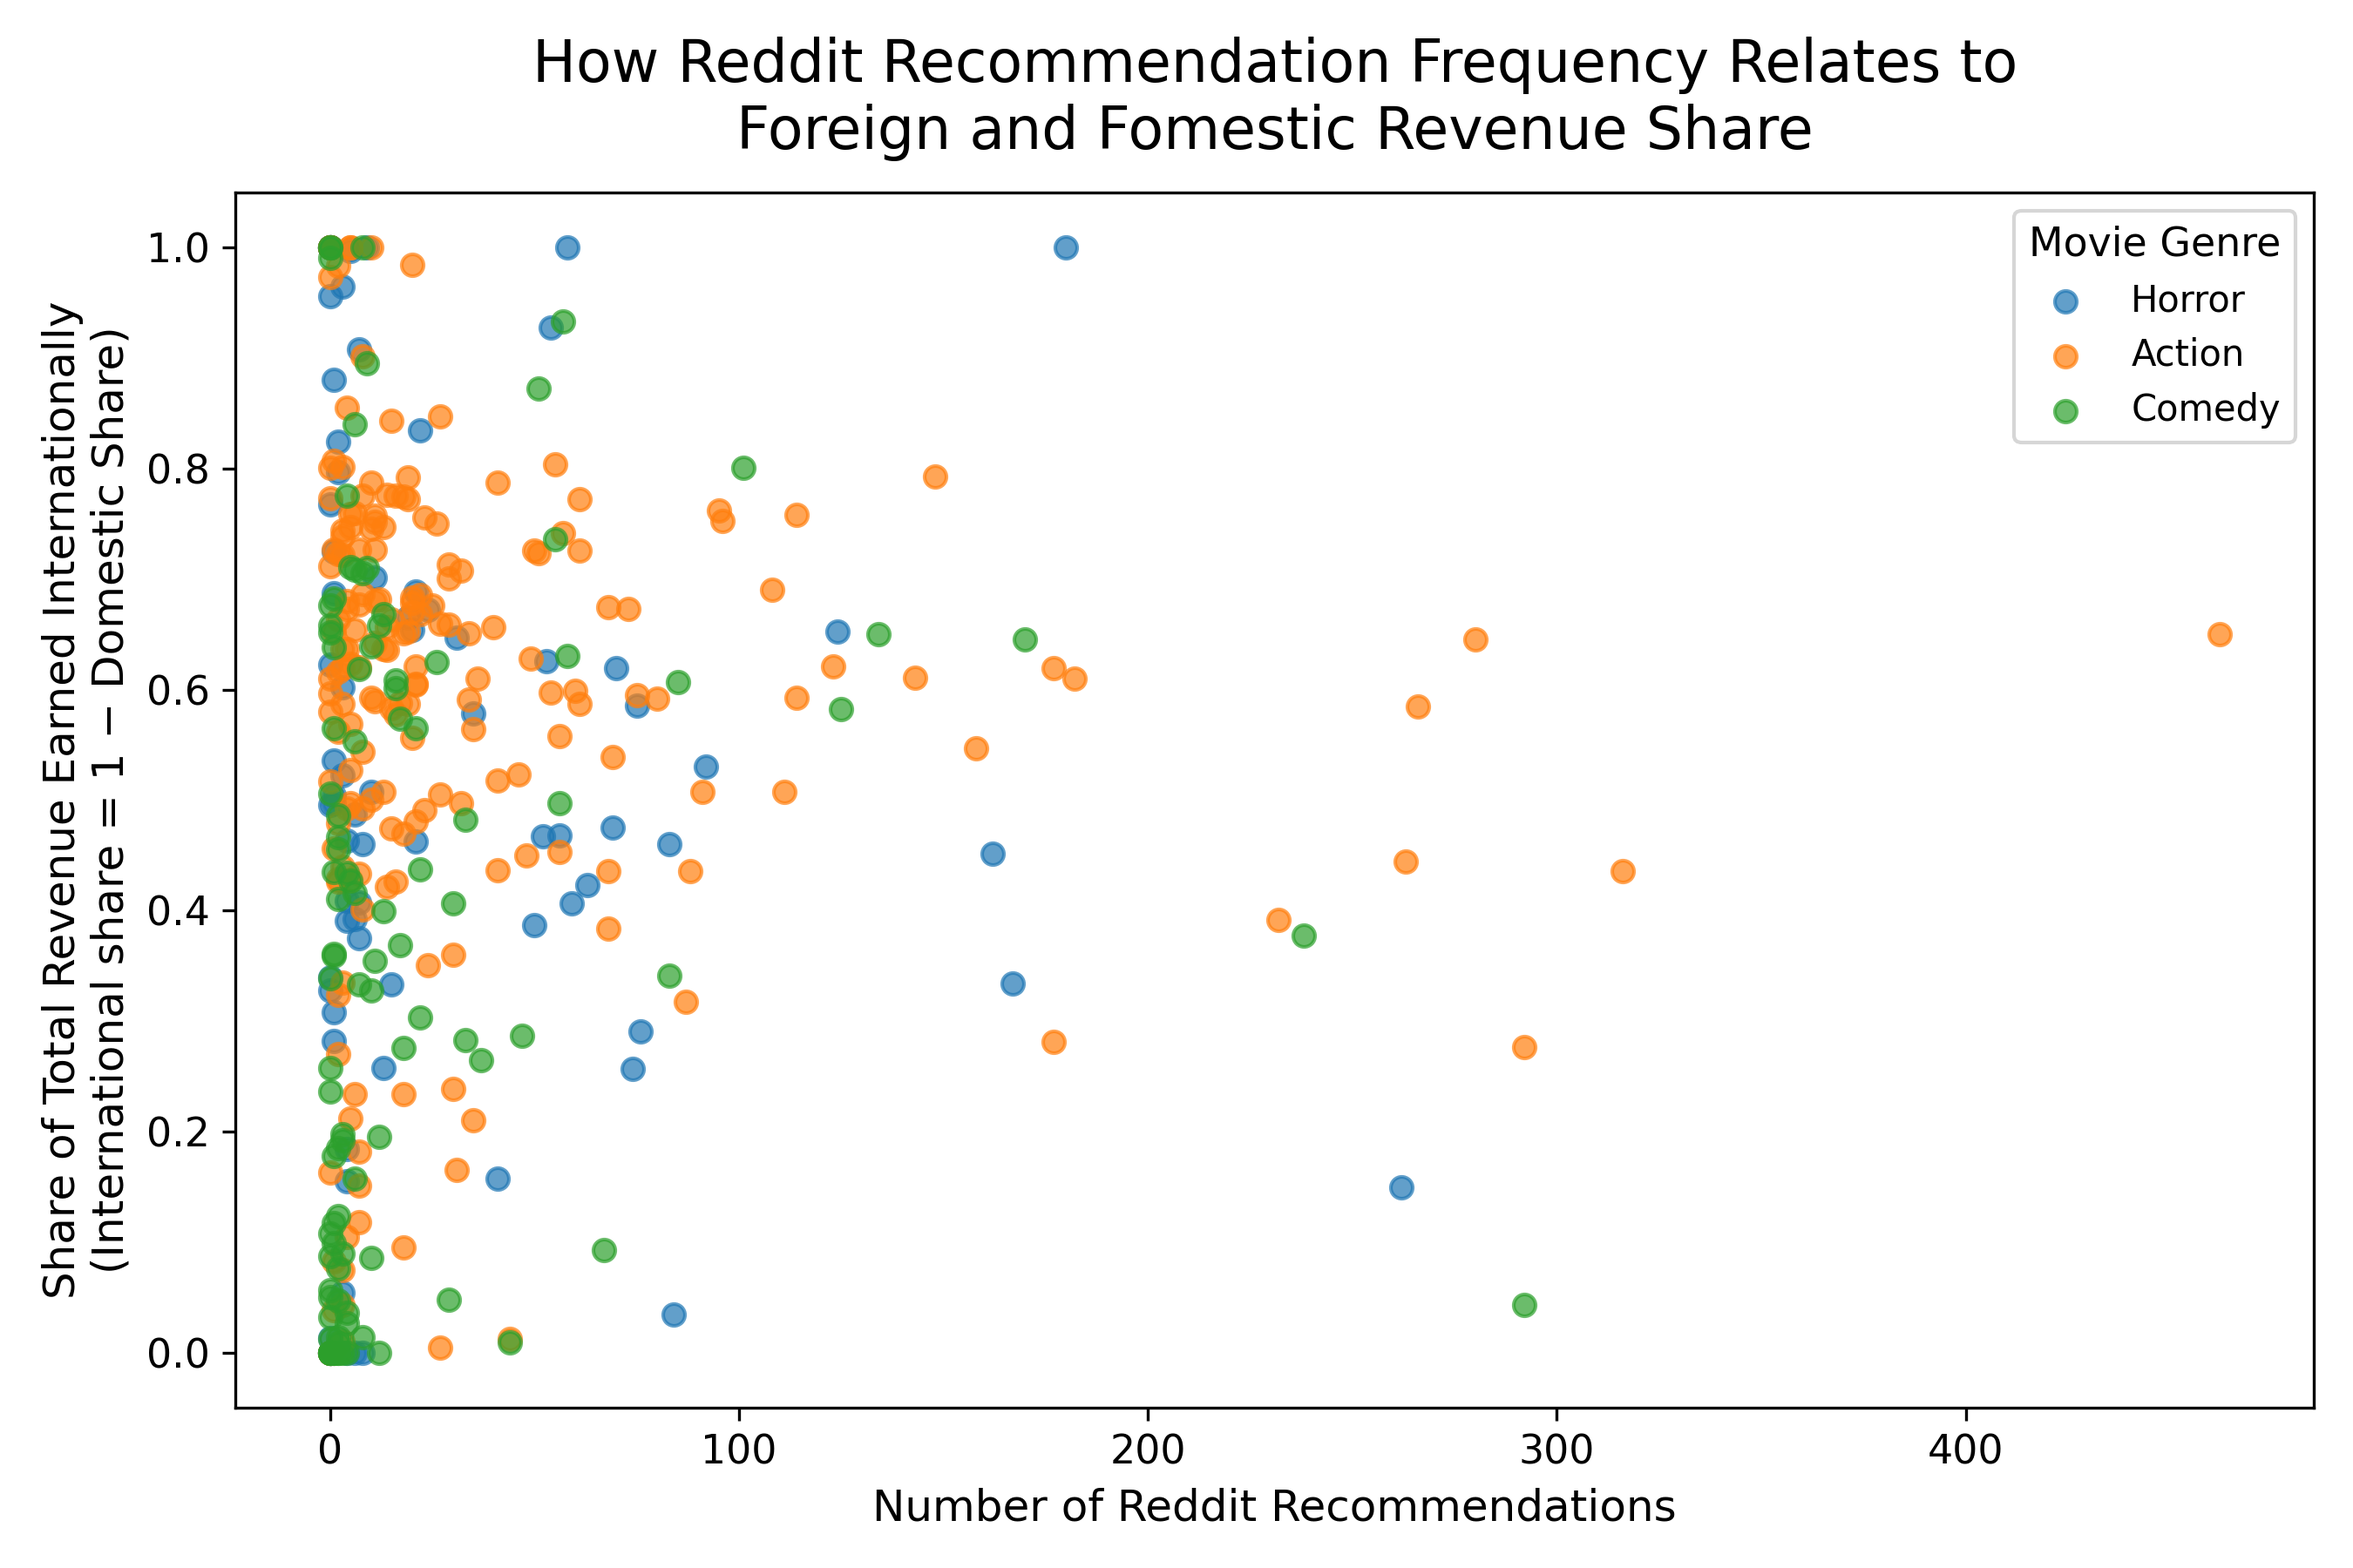
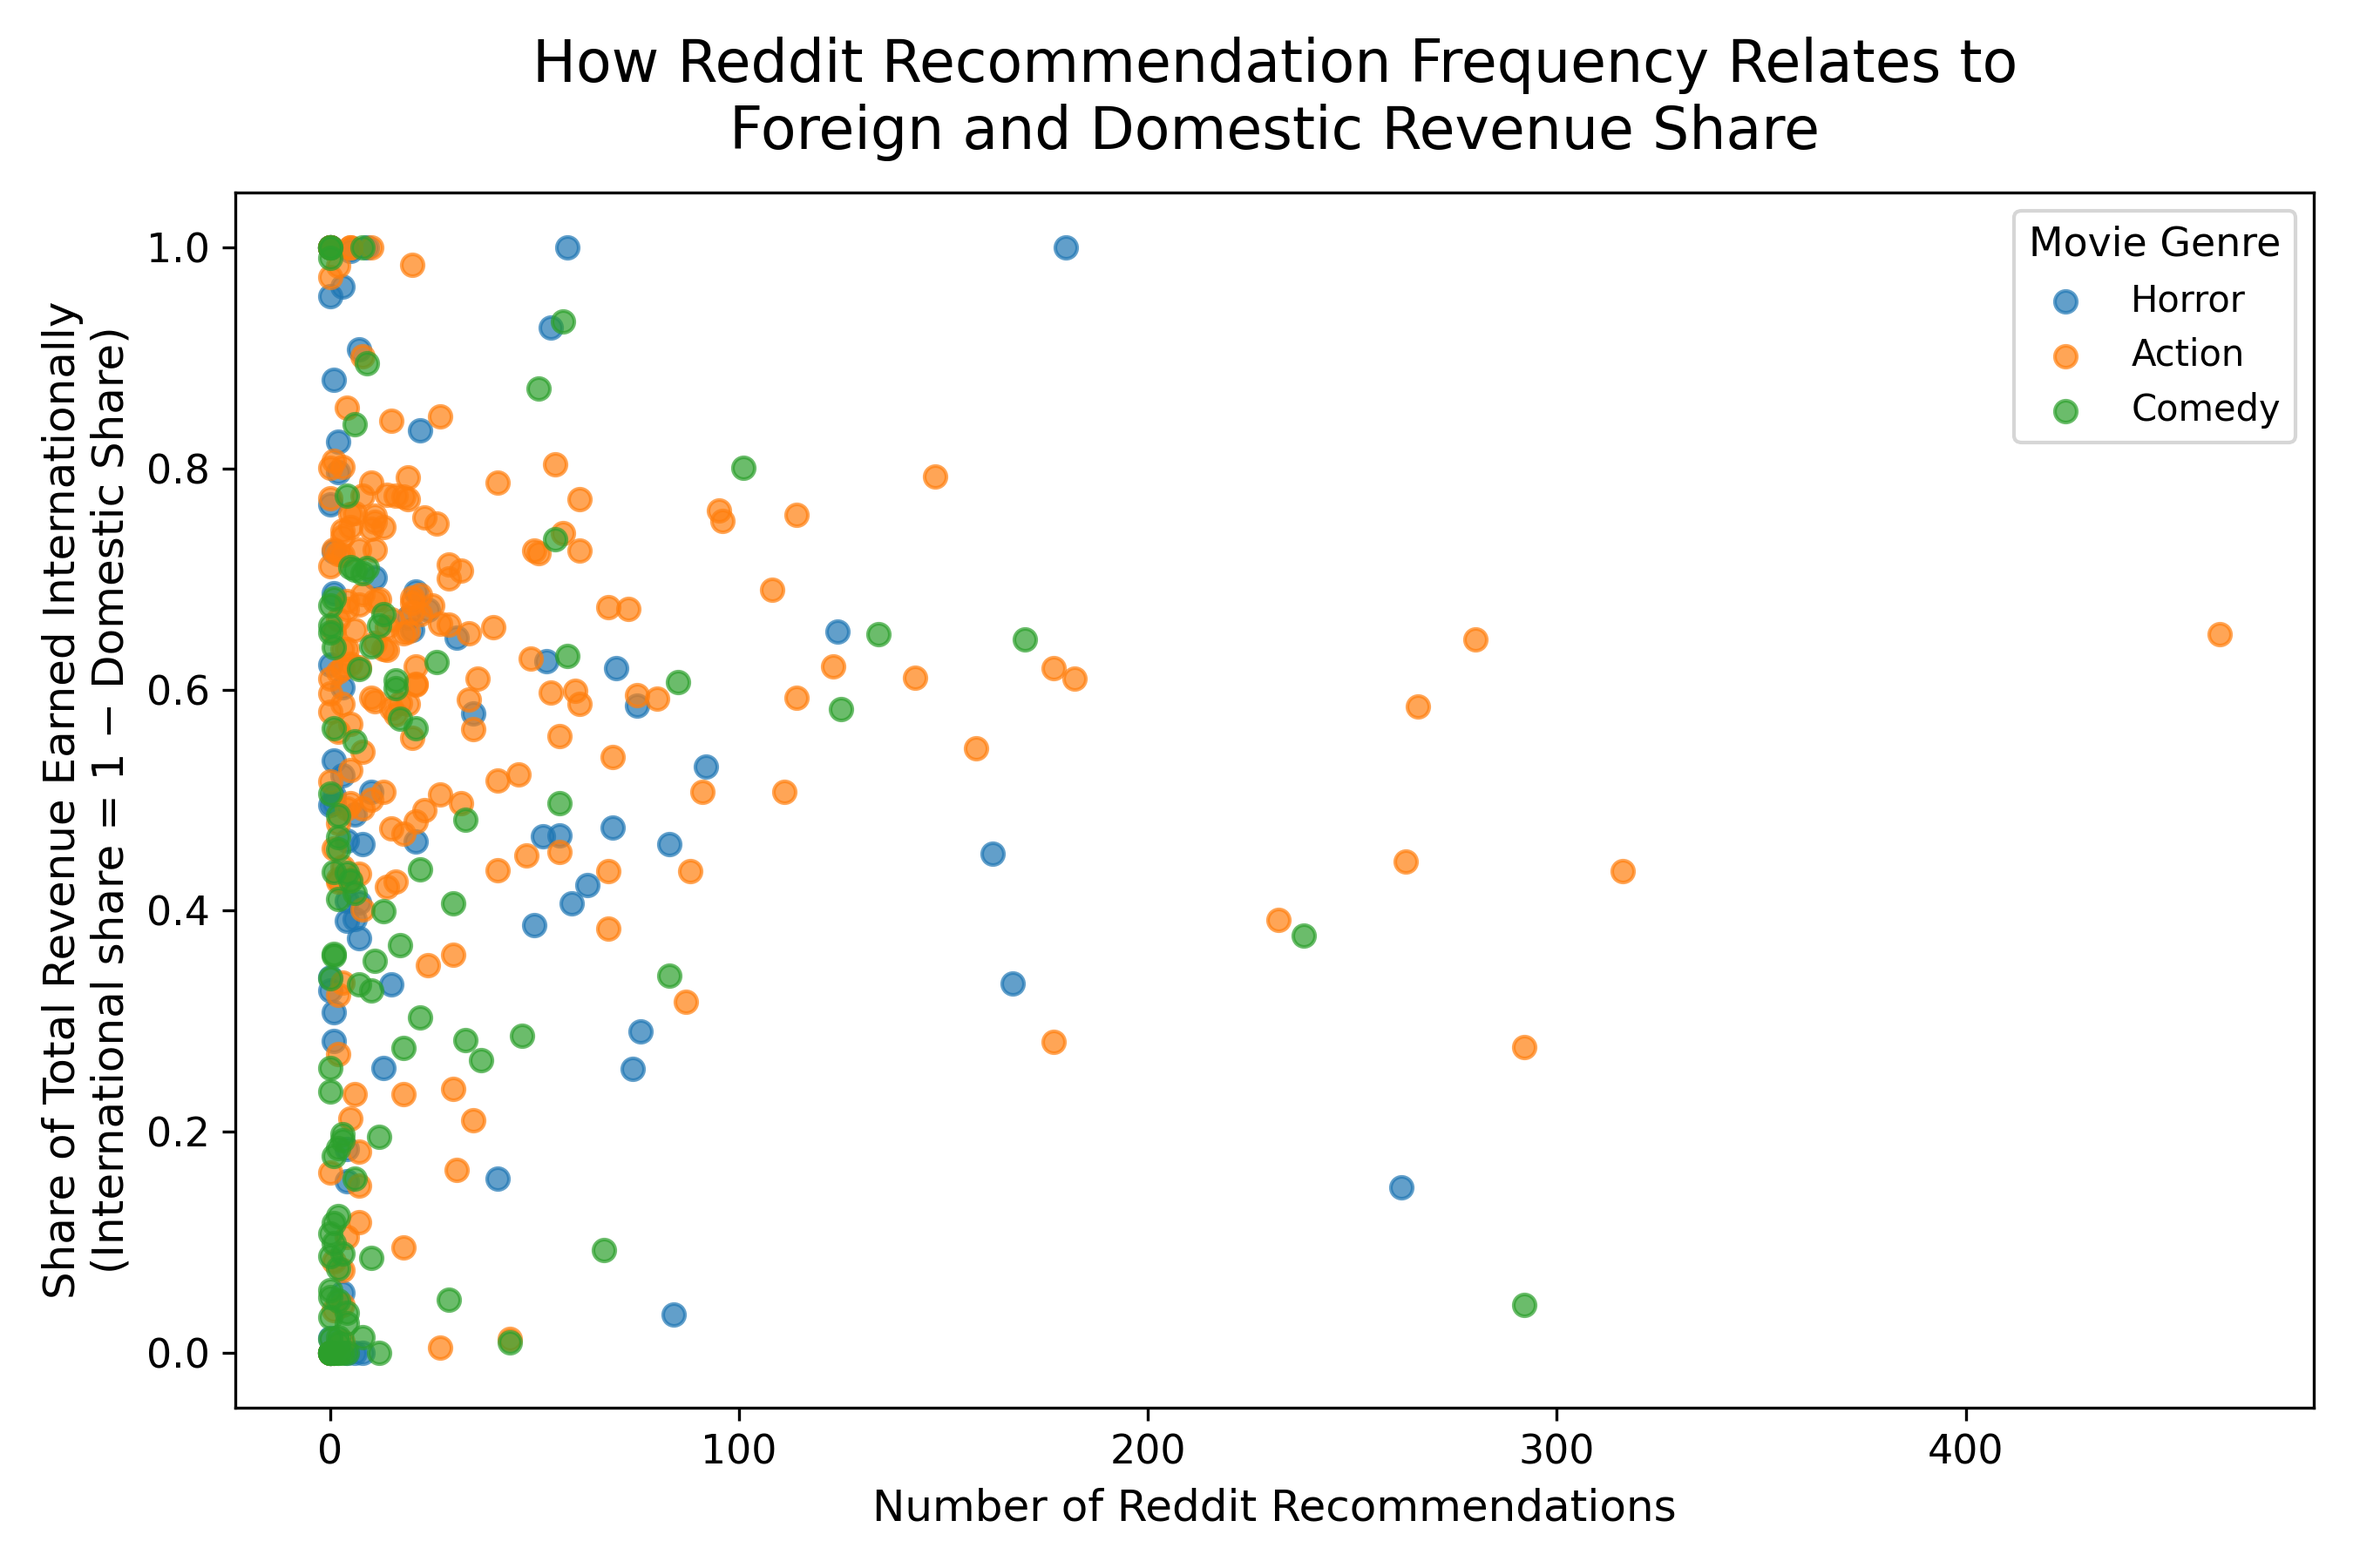
chart title updates

Changed region(s): [[0.3111, 0.0622, 0.7778, 0.0933]]

diff --git a/phase3_analysis.py b/phase3_analysis.py
@@ -175,7 +175,7 @@ def analyze_rq1(connection) -> pd.DataFrame:
     ax = plt.gca()
     format_axis_labels(
     ax,
-    "How Reddit Recommendation Frequency Relates to\nForeign and Fomestic Revenue Share",
+    "How Reddit Recommendation Frequency Relates to\nForeign and Domestic Revenue Share",
     "Number of Reddit Recommendations",
     "Share of Total Revenue Earned Internationally\n(International share = 1 − Domestic Share)"
     )
